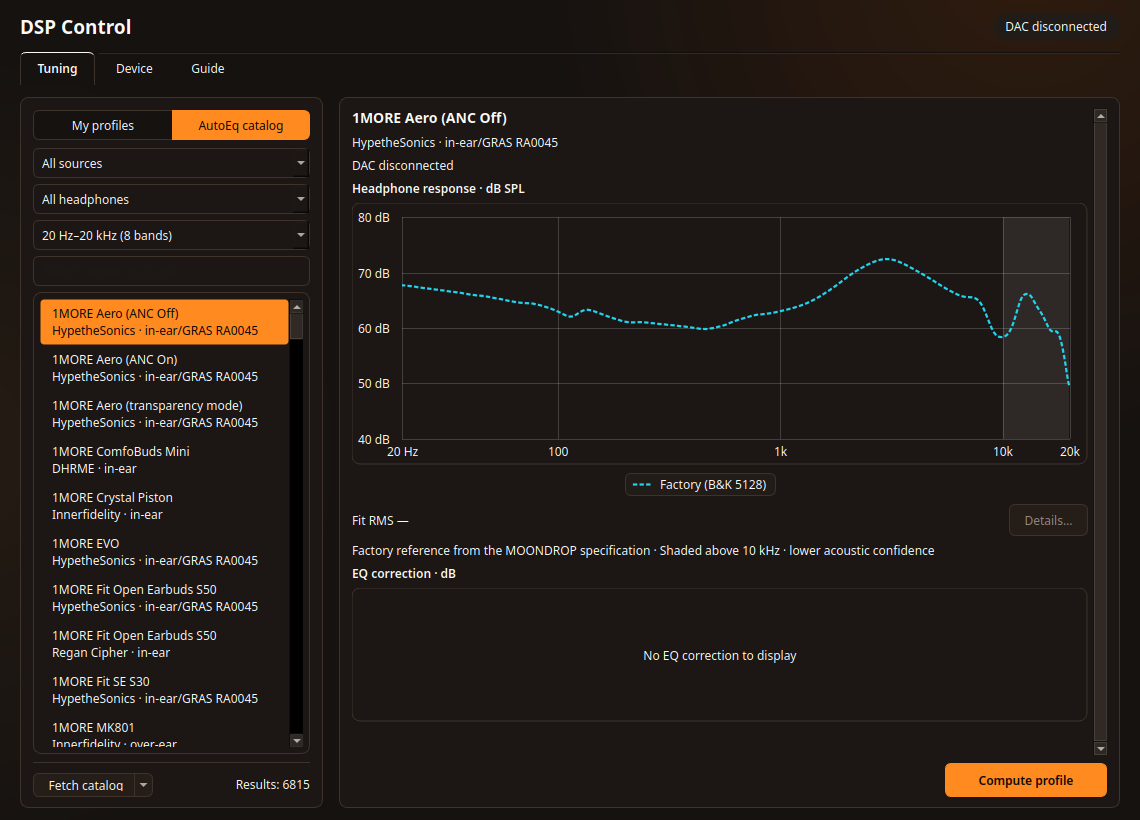
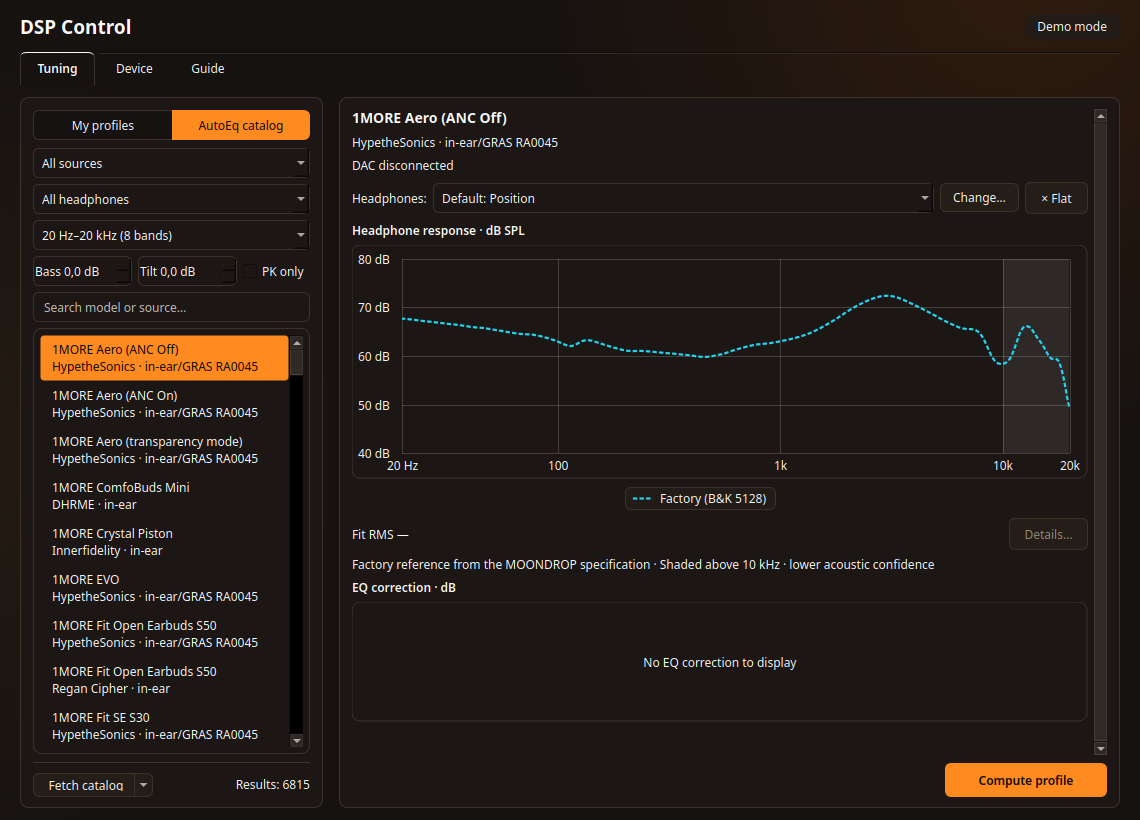
chore(release): prepare v0.4.3 docs, screenshots, and release metadata

diff --git a/README.pl.md b/README.pl.md
@@ -82,6 +82,8 @@ python3 scripts/dsp_control.py
 ```bash
 flatpak-builder --force-clean --disable-rofiles-fuse --repo=flatpak-repo flatpak-build pl.innovibe.DspControl.json
 flatpak build-bundle flatpak-repo dsp-control.flatpak pl.innovibe.DspControl
+# Lub budowa statycznego repozytorium OSTree Flatpak (.flatpakrepo / .flatpakref):
+./scripts/build_flatpak_repo.sh dist/flatpak-repo
 ```
 
 Manifest ([`pl.innovibe.DspControl.json`](pl.innovibe.DspControl.json)) używa `--device=all` (dostęp do `/dev/hidraw*`), `--share=network` (pobieranie katalogu AutoEq na żądanie), `--talk-name=org.kde.StatusNotifierWatcher` (zasobnik systemowy) oraz `--socket=wayland` / `--socket=fallback-x11` / `--share=ipc` (okno aplikacji). Do pracy całkowicie offline użyj `flatpak run --unshare=network pl.innovibe.DspControl`.
@@ -102,14 +104,14 @@ Manifest ([`pl.innovibe.DspControl.json`](pl.innovibe.DspControl.json)) używa `
 |---|---|---|
 | EQ parametryczny (`PK / LSQ / HSQ / LP / HP`) + Pre-gain | Tylko `PK / LP / HP` (półki wyłączone na Position) | **Odblokowuje `LSQ / HSQ` (`1× LSQ + 1× HSQ + 6× PK`), natywny USB HID `0x4B`, offline** |
 | Interaktywny wykres EQ i zapas do przesteru | Tylko suwaki | **Przeciąganie punktów na wykresie (Hz/dB/kółko Q) + automatyczny pre-gain** |
-| Odsłuch na żywo (`Live preview`) | Tak | **Tak — włącza się automatycznie i bezpiecznie przywraca stan po anulowaniu** |
-| Wbudowany optymalizator AutoEq | Podstawowe presety | **Indeks 6800+ offline + 9 targetów MIT + podgląd celu + zakres + Drag & Drop** |
+| Odsłuch na żywo (`Live preview`) | Tak | **Tak — auto-odsłuch + `A/B: Bypass` (płaski 0 dB) + bezpieczne przywracanie** |
+| Wbudowany optymalizator AutoEq | Podstawowe presety | **Indeks 6800+ offline + Bas / Tilt / Tylko PK + zakres + Drag & Drop** |
 | Porównanie z obecnym DSP i interaktywna legenda | Nie | **Krzywa `Obecnie w DSP` na obu wykresach, ukrywanie/solo pigułek, `Hz / dB / Δ dB`** |
 | Wzmocnienie wyjścia (`-18…0 dB`) i mikrofonu | Tak | **Tak, z opcjonalnym zapisem w profilu** |
-| Biblioteka lokalna vs flash DAC-a | Ograniczone | **Pełna biblioteka na dysku, Drag & Drop, import/eksport JSON i Equalizer APO (`.txt`)** |
+| Biblioteka lokalna vs flash DAC-a | Ograniczone | **Pełna biblioteka, auto-synchronizacja słuchawek, Drag & Drop, wklejanie/import/eksport Equalizer APO** |
 | Monitor strumienia UAC2 i próbkowania PipeWire | Nie | **Tak (`44,1–384 kHz` + odczyt głębi bitowej ALSA)** |
 | Weryfikacja zapisu i diagnostyka | Podstawowa | **Weryfikacja przed/po zapisie flash, Przywróć poprzedni, bezrootowy `--diagnose`** |
-| Motywy, język i wbudowany Przewodnik | Tylko web | **Motywy InnoVibe Ciemny i Jasny, PL / EN, zakładka Przewodnik** |
+| Motywy, język, Przewodnik i aktualizacje | Tylko web | **Motywy InnoVibe Ciemny i Jasny, PL / EN, Przewodnik, opcjonalne sprawdzanie wydań** |
 
 ---
 

diff --git a/README.md b/README.md
@@ -82,6 +82,8 @@ python3 scripts/dsp_control.py
 ```bash
 flatpak-builder --force-clean --disable-rofiles-fuse --repo=flatpak-repo flatpak-build pl.innovibe.DspControl.json
 flatpak build-bundle flatpak-repo dsp-control.flatpak pl.innovibe.DspControl
+# Or build a static OSTree Flatpak repository (with .flatpakrepo / .flatpakref):
+./scripts/build_flatpak_repo.sh dist/flatpak-repo
 ```
 
 The manifest ([`pl.innovibe.DspControl.json`](pl.innovibe.DspControl.json)) requests `--device=all` (USB `hidraw` DSP access), `--share=network` (user-initiated AutoEq catalog downloads), `--talk-name=org.kde.StatusNotifierWatcher` (system tray icon), and `--socket=wayland` / `--socket=fallback-x11` / `--share=ipc` (desktop window). For a strictly offline session with local profiles and cached curves, run `flatpak run --unshare=network pl.innovibe.DspControl`.
@@ -102,14 +104,14 @@ The manifest ([`pl.innovibe.DspControl.json`](pl.innovibe.DspControl.json)) requ
 |---|---|---|
 | Parametric EQ (`PK / LSQ / HSQ / LP / HP`) + Pre-gain | `PK / LP / HP` only (shelves disabled on Position) | **Unlocks `LSQ / HSQ` (`1× LSQ + 1× HSQ + 6× PK`), native USB HID `0x4B`, offline** |
 | Interactive EQ Curve & Headroom | Sliders only | **Drag points on plot (Freq / Gain / Wheel Q) + Auto Headroom & Clip Check** |
-| Live Auditioning | Yes | **Yes, auto-enabled with safe state restore on cancel** |
-| Built-in AutoEq Optimizer | Basic presets | **6,800+ offline index + 9 MIT targets + pre-fit preview + fit range + Drag & Drop** |
+| Live Auditioning | Yes | **Yes, auto-enabled + `A/B: Bypass` flat compare + safe restore** |
+| Built-in AutoEq Optimizer | Basic presets | **6,800+ offline index + Bass boost / Tilt / PK-only + fit range + Drag & Drop** |
 | Live DSP Comparison & Interactive Legend | No | **Compare against Current in DSP on both plots, toggle/solo pills, `Hz / dB / Δ dB`** |
 | Output Gain (`-18…0 dB`) & Mic Gain | Yes | **Yes, optional per-profile bundling** |
-| Local Library vs DAC Flash | Limited | **Full local library, Drag & Drop, JSON & Equalizer APO (`.txt`) import/export** |
+| Local Library vs DAC Flash | Limited | **Full local library, headphone auto-sync, Drag & Drop, JSON & Equalizer APO paste/import/export** |
 | PipeWire UAC2 Monitor & Sample Rate | No | **Yes (`44.1–384 kHz` + ALSA bit-depth readout)** |
 | Readback Verification & Diagnostics | Basic | **Pre/post-flash verification, 1-click Restore previous, rootless `--diagnose`** |
-| Themes, Language & Built-in Guide | Web only | **InnoVibe Dark & Light themes, EN / PL, built-in Guide tab** |
+| Themes, Language, Guide & Updates | Web only | **InnoVibe Dark & Light, EN / PL, built-in Guide, opt-in release update check** |
 
 ---
 
